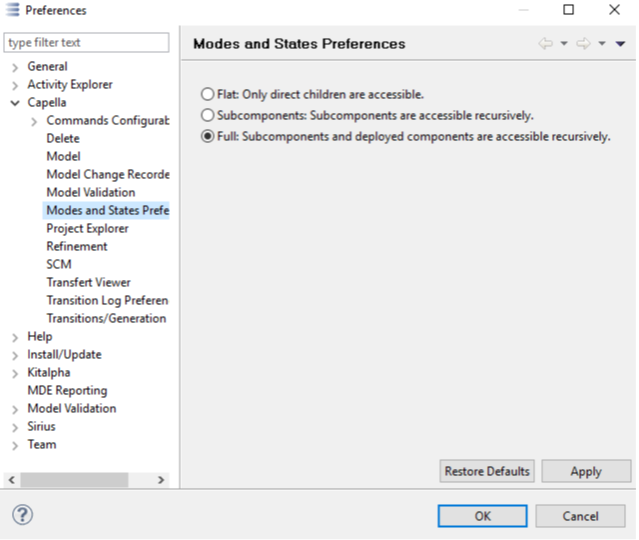
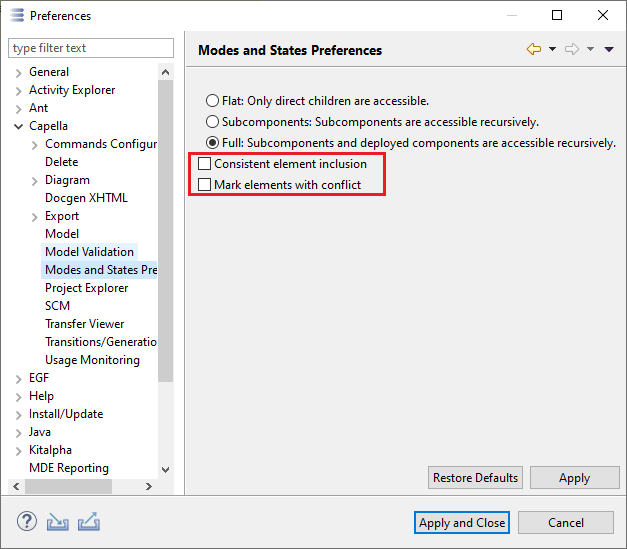
Document vpms diagram layer options

diff --git a/plugins/org.polarsys.capella.vp.ms.doc/html/diagram_options.html b/plugins/org.polarsys.capella.vp.ms.doc/html/diagram_options.html
@@ -1,0 +1,21 @@
+<?xml version='1.0' encoding='utf-8' ?><!DOCTYPE html PUBLIC "-//W3C//DTD XHTML 1.0 Transitional//EN" "http://www.w3.org/TR/xhtml1/DTD/xhtml1-transitional.dtd">
+<html xmlns="http://www.w3.org/1999/xhtml">
+	<head>
+		<meta http-equiv="Content-Type" content="text/html; charset=utf-8"/>
+		<link rel="stylesheet" type="text/css" href="PLUGINS_ROOT/org.polarsys.capella.doc/html/styles.css" media="all" />
+	</head>
+	<body>
+		<h1 id="Viewpoint_Diagram_Layer_Options">Viewpoint Diagram Layer Options</h1>
+		<p>The Modes and States Viewpoint Layer for XAB Diagrams can style Configuration Elements in different ways, depending on two preferences set under
+			Window-&gt;Preferences-&gt;Capella-&gt;Modes and States Preferences:</p>
+		<p>
+			<img border="0" src="example12.png"/>
+		</p>
+		<h3 id="Consistent_Element_Inclusion">Consistent Element Inclusion</h3>
+		<p>If this option is selected, an element appears greyed out if at least one of the Configurations shown on the diagram excludes the element. If all shown Configurations include the element, it appears with its default style. If the option is not selected, an element is greyed out if at least one shown Configuration excludes the element.</p>
+		<h3 id="Mark_elements_with_conflict">Mark elements with conflict</h3>
+		<p>This option only has an effect if 
+			<i>Consistent Element Inclusion</i> is enabled. If the option is selected, elements that are excluded in one, but included in a different Configuration, and these Configurations are shown on the diagram, are displayed in a different color to indicate this conflict.
+		</p>
+	</body>
+</html>
